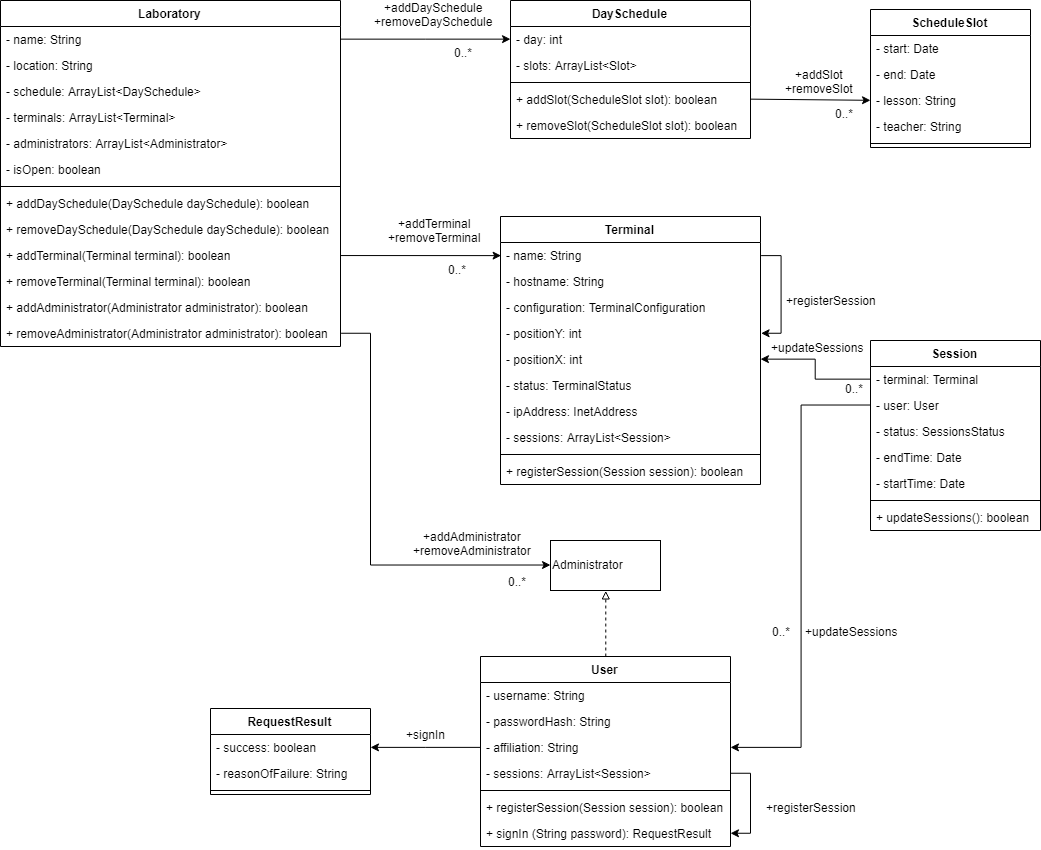
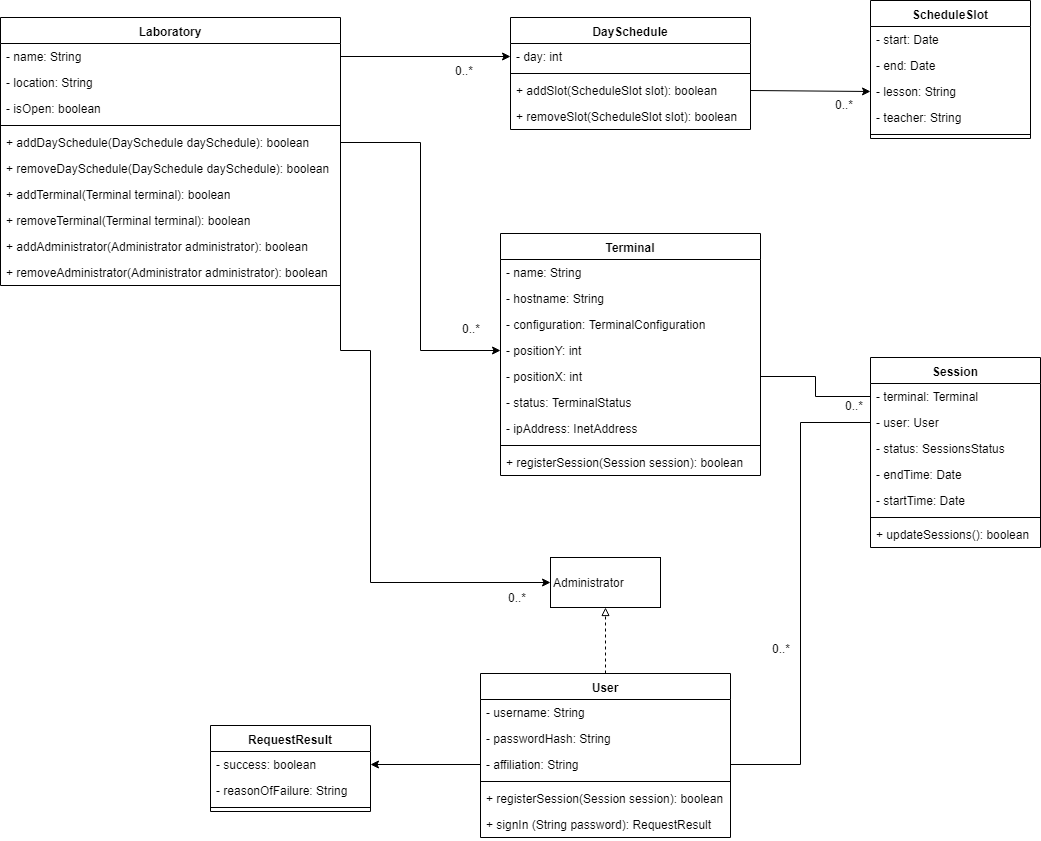
Little fix to R3 & final bug fixes to R4

diff --git a/app/src/test/java/gr/aueb/se/labadministration/dao/MemoryDAOTests.java b/app/src/test/java/gr/aueb/se/labadministration/dao/MemoryDAOTests.java
@@ -110,6 +110,22 @@ public class MemoryDAOTests {
     }
 
     /**
+     * Test that saves Terminal to lab
+     */
+    @Test
+    public void addTerminal(){
+        Terminal terminal = new Terminal("TEST", null, null, 11, 1, null);
+
+        laboratoryDAOMemory.addTerminal(laboratory, terminal);
+
+        Laboratory test_lab = laboratoryDAOMemory.findByName(laboratory.getName());
+
+        ArrayList<Terminal> terminals = test_lab.getTerminals();
+
+        Assert.assertTrue(terminals.contains(terminal));
+    }
+
+    /**
      * Test that searches with Lab DAO based on name and exists
      */
     @Test

diff --git a/app/src/main/java/gr/aueb/se/labadministration/memorydao/LaboratoryDAOMemory.java b/app/src/main/java/gr/aueb/se/labadministration/memorydao/LaboratoryDAOMemory.java
@@ -48,6 +48,19 @@ public class LaboratoryDAOMemory implements LaboratoryDAO {
     }
 
     /**
+     * The method that adds a terminal to the lab
+     * @param terminal
+     */
+    @Override
+    public void addTerminal(Laboratory laboratory, Terminal terminal) {
+        for (Laboratory lab : laboratories){
+            if(lab.getName().equals(laboratory.getName())) {
+                lab.addTerminal(terminal);
+            }
+        }
+    }
+
+    /**
      * The method that searches if a lab exists with that name
      * @param name
      * @return a lab or null

diff --git a/app/src/main/java/gr/aueb/se/labadministration/dao/LaboratoryDAO.java b/app/src/main/java/gr/aueb/se/labadministration/dao/LaboratoryDAO.java
@@ -1,6 +1,7 @@
 package gr.aueb.se.labadministration.dao;
 
 import gr.aueb.se.labadministration.domain.lab.Laboratory;
+import gr.aueb.se.labadministration.domain.lab.Terminal;
 
 import java.util.ArrayList;
 
@@ -20,6 +21,12 @@ public interface LaboratoryDAO {
      * @param laboratory
      */
     void remove(Laboratory laboratory);
+
+    /**
+     * The method that adds a terminal to the lab
+     * @param terminal
+     */
+    void addTerminal(Laboratory laboratory, Terminal terminal);
 
     /**
      * The method that searches if a lab exists with that name

diff --git a/app/src/main/java/gr/aueb/se/labadministration/services/LabService.java b/app/src/main/java/gr/aueb/se/labadministration/services/LabService.java
@@ -62,10 +62,8 @@ public class LabService extends Service {
      * @param terminal to save
      */
     public void saveTerminal(Laboratory laboratory, Terminal terminal) {
+        getLaboratoryDAO().addTerminal(laboratory, terminal);
         getTerminalDAO().save(terminal);
-        Laboratory lab = getLaboratoryDAO().findByName(laboratory.getName());
-        lab.addTerminal(terminal);
-        getLaboratoryDAO().save(lab);
     }
 
     /**

diff --git a/README.md b/README.md
@@ -1,10 +1,16 @@
-### Παραδοτέο R4
+###### Παραδοτέο R4
 
 # Εισαγωγή
 
 Στο παρών έγγραφο θα αναλυθεί η τελική υλοποίηση της εφαρμογής στο Android framework.
 
 # Αρχιτεκτονική Λογισμικού
+
+## Διάγραμμα κλάσεων
+
+Παρακάτων παρουσιάζεται το διάγραμμα κλάσεων που εμπεριέχει όλο το project. Δυστυχώς είναι δυσανάγνωστο από το αρχείο της Markdown.
+
+![](Deliverables/R4/class-diagram.png)
 
 ## Διάγραμμα πακέτων
 
